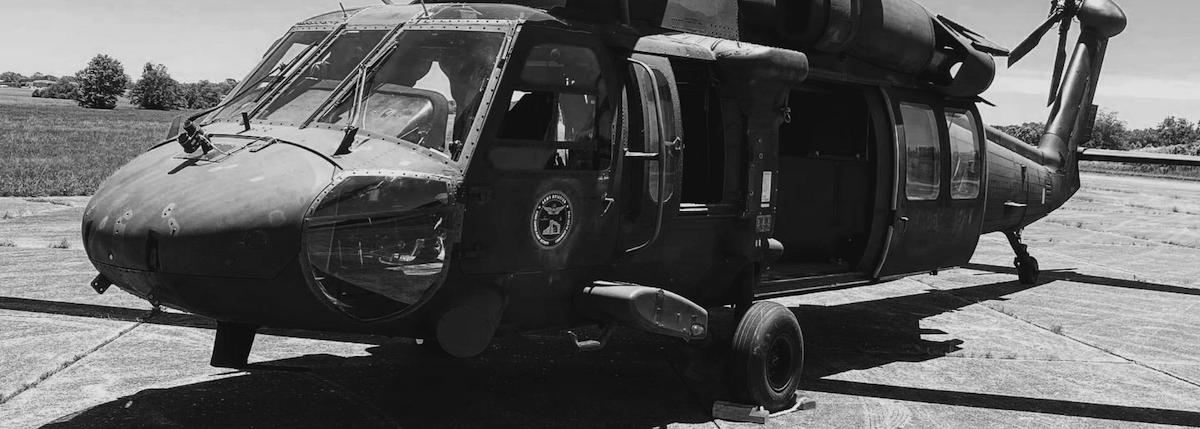
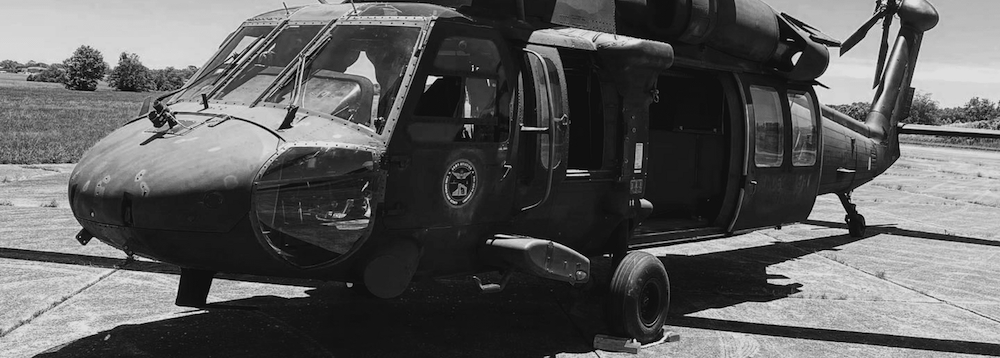
Header image perfect show

Changed region(s): [[0.217, 0.1536, 0.248, 0.1844]]

diff --git a/app/style.css b/app/style.css
@@ -1152,6 +1152,7 @@ p {
 }
 
 .header {
+  width: 100%;
   height: 85vh;
   background-repeat: no-repeat;
   background-size: cover;
@@ -1161,9 +1162,9 @@ p {
 }
 @supports (clip-path: polygon(0 0)) or (-webkit-clip-path: polygon(0 0)) {
   .header {
-    -webkit-clip-path: polygon(0 0, 100% 0, 100% 75vh, 0 100%);
-    clip-path: polygon(0 0, 100% 0, 100% 75vh, 0 100%);
-    height: 95vh;
+    -webkit-clip-path: polygon(0 0, 100% 0, 100% 75%, 0 100%);
+    clip-path: polygon(0 0, 100% 0, 100% 75%, 0 100%);
+    height: 65vh;
   }
 }
 @media only screen and (min-resolution: 192dpi) and (min-width: 37.5em), only screen and (-webkit-min-device-pixel-ratio: 2) and (min-width: 37.5em), only screen and (min-width: 125em) {
@@ -1173,8 +1174,10 @@ p {
 }
 @media only screen and (max-width: 37.5em) {
   .header {
-    -webkit-clip-path: polygon(0 0, 100% 0, 100% 85vh, 0 100%);
-    clip-path: polygon(0 0, 100% 0, 100% 85vh, 0 100%);
+    -webkit-clip-path: polygon(0 0, 100% 0, 100% 85%, 0 100%);
+    clip-path: polygon(0 0, 100% 0, 100% 85%, 0 100%);
+    height: 28vh;
+    margin-bottom: 120px;
   }
 }
 .header__logo-box {
@@ -1340,25 +1343,27 @@ p {
   background-repeat: no-repeat;
   background-size: cover;
   background-position: center center;
-  background-image: linear-gradient(to right bottom, rgba(250, 160, 160, 0.1), rgba(195, 10, 35, 0.1)), url(/img/about-header-small.jpg);
+  background-image: linear-gradient(to right bottom, rgba(250, 160, 160, 0.1), rgba(195, 10, 35, 0.1)), url(/img/aboutheader-small.jpg);
   position: relative;
 }
 @supports (clip-path: polygon(0 0)) or (-webkit-clip-path: polygon(0 0)) {
   .aboutpage {
-    -webkit-clip-path: polygon(0 0, 100% 0, 100% 75vh, 0 100%);
-    clip-path: polygon(0 0, 100% 0, 100% 75vh, 0 100%);
+    -webkit-clip-path: polygon(0 0, 100% 0, 100% 75%, 0 100%);
+    clip-path: polygon(0 0, 100% 0, 100% 75%, 0 100%);
     height: 95vh;
   }
 }
 @media only screen and (min-resolution: 192dpi) and (min-width: 37.5em), only screen and (-webkit-min-device-pixel-ratio: 2) and (min-width: 37.5em), only screen and (min-width: 125em) {
   .aboutpage {
-    background-image: linear-gradient(to right bottom, rgba(250, 160, 160, 0.1), rgba(195, 10, 35, 0.1)), url(/img/about-header.jpg);
+    background-image: linear-gradient(to right bottom, rgba(250, 160, 160, 0.1), rgba(195, 10, 35, 0.1)), url(/img/aboutheader.jpg);
   }
 }
 @media only screen and (max-width: 37.5em) {
   .aboutpage {
-    -webkit-clip-path: polygon(0 0, 100% 0, 100% 85vh, 0 100%);
-    clip-path: polygon(0 0, 100% 0, 100% 85vh, 0 100%);
+    -webkit-clip-path: polygon(0 0, 100% 0, 100% 85%, 0 100%);
+    clip-path: polygon(0 0, 100% 0, 100% 85%, 0 100%);
+    height: 30vh;
+    margin-bottom: 120px;
   }
 }
 .aboutpage__logo-box {
@@ -1424,8 +1429,8 @@ p {
 }
 @supports (clip-path: polygon(0 0)) or (-webkit-clip-path: polygon(0 0)) {
   .whyxppage {
-    -webkit-clip-path: polygon(0 0, 100% 0, 100% 75vh, 0 100%);
-    clip-path: polygon(0 0, 100% 0, 100% 75vh, 0 100%);
+    -webkit-clip-path: polygon(0 0, 100% 0, 100% 75%, 0 100%);
+    clip-path: polygon(0 0, 100% 0, 100% 75%, 0 100%);
     height: 90vh;
   }
 }
@@ -1436,8 +1441,10 @@ p {
 }
 @media only screen and (max-width: 37.5em) {
   .whyxppage {
-    -webkit-clip-path: polygon(0 0, 100% 0, 100% 85vh, 0 100%);
-    clip-path: polygon(0 0, 100% 0, 100% 85vh, 0 100%);
+    -webkit-clip-path: polygon(0 0, 100% 0, 100% 85%, 0 100%);
+    clip-path: polygon(0 0, 100% 0, 100% 85%, 0 100%);
+    height: 30vh;
+    margin-bottom: 120px;
   }
 }
 .whyxppage__logo-box {
@@ -1582,6 +1589,7 @@ p {
 @media only screen and (max-width: 56.25em) {
   .section-about-features {
     padding: 20rem 0;
+    margin-bottom: 10vh;
   }
 }
 
@@ -1633,7 +1641,7 @@ p {
 }
 @media only screen and (max-width: 56.25em) {
   .section-whyxp-features {
-    padding: 20rem 0;
+    padding: 5rem 0;
   }
 }
 

diff --git a/sass/layout/_aboutpage.scss b/sass/layout/_aboutpage.scss
@@ -8,12 +8,12 @@
       rgba($color-primary-light, 0.1),
       rgba($color-primary-dark, 0.1)
     ),
-    url(/img/about-header-small.jpg);
+    url(/img/aboutheader-small.jpg);
   position: relative;
 
   @supports (clip-path: polygon(0 0)) or (-webkit-clip-path: polygon(0 0)) {
-    -webkit-clip-path: polygon(0 0, 100% 0, 100% 75vh, 0 100%);
-    clip-path: polygon(0 0, 100% 0, 100% 75vh, 0 100%);
+    -webkit-clip-path: polygon(0 0, 100% 0, 100% 75%, 0 100%);
+    clip-path: polygon(0 0, 100% 0, 100% 75%, 0 100%);
     height: 95vh;
   }
 
@@ -25,12 +25,14 @@
         rgba($color-primary-light, 0.1),
         rgba($color-primary-dark, 0.1)
       ),
-      url(/img/about-header.jpg);
+      url(/img/aboutheader.jpg);
   }
 
   @include respond(phone) {
-    -webkit-clip-path: polygon(0 0, 100% 0, 100% 85vh, 0 100%);
-    clip-path: polygon(0 0, 100% 0, 100% 85vh, 0 100%);
+    -webkit-clip-path: polygon(0 0, 100% 0, 100% 85%, 0 100%);
+    clip-path: polygon(0 0, 100% 0, 100% 85%, 0 100%);
+    height: 30vh;
+    margin-bottom: 120px;
   }
 
   &__logo-box {

diff --git a/sass/layout/_header.scss b/sass/layout/_header.scss
@@ -1,4 +1,5 @@
 .header {
+  width: 100%;
   height: 85vh;
   background-repeat: no-repeat;
   background-size: cover;
@@ -12,9 +13,9 @@
   position: relative;
 
   @supports (clip-path: polygon(0 0)) or (-webkit-clip-path: polygon(0 0)) {
-    -webkit-clip-path: polygon(0 0, 100% 0, 100% 75vh, 0 100%);
-    clip-path: polygon(0 0, 100% 0, 100% 75vh, 0 100%);
-    height: 95vh;
+    -webkit-clip-path: polygon(0 0, 100% 0, 100% 75%, 0 100%);
+    clip-path: polygon(0 0, 100% 0, 100% 75%, 0 100%);
+    height: 65vh;
   }
 
   @media only screen and (min-resolution: 192dpi) and (min-width: 37.5em),
@@ -29,8 +30,10 @@
   }
 
   @include respond(phone) {
-    -webkit-clip-path: polygon(0 0, 100% 0, 100% 85vh, 0 100%);
-    clip-path: polygon(0 0, 100% 0, 100% 85vh, 0 100%);
+    -webkit-clip-path: polygon(0 0, 100% 0, 100% 85%, 0 100%);
+    clip-path: polygon(0 0, 100% 0, 100% 85%, 0 100%);
+    height: 28vh;
+    margin-bottom: 120px;
   }
 
   &__logo-box {

diff --git a/sass/layout/_whyxppage.scss b/sass/layout/_whyxppage.scss
@@ -12,8 +12,8 @@
   position: relative;
 
   @supports (clip-path: polygon(0 0)) or (-webkit-clip-path: polygon(0 0)) {
-    -webkit-clip-path: polygon(0 0, 100% 0, 100% 75vh, 0 100%);
-    clip-path: polygon(0 0, 100% 0, 100% 75vh, 0 100%);
+    -webkit-clip-path: polygon(0 0, 100% 0, 100% 75%, 0 100%);
+    clip-path: polygon(0 0, 100% 0, 100% 75%, 0 100%);
     height: 90vh;
   }
 
@@ -29,8 +29,10 @@
   }
 
   @include respond(phone) {
-    -webkit-clip-path: polygon(0 0, 100% 0, 100% 85vh, 0 100%);
-    clip-path: polygon(0 0, 100% 0, 100% 85vh, 0 100%);
+    -webkit-clip-path: polygon(0 0, 100% 0, 100% 85%, 0 100%);
+    clip-path: polygon(0 0, 100% 0, 100% 85%, 0 100%);
+    height: 30vh;
+    margin-bottom: 120px;
   }
 
   &__logo-box {

diff --git a/app/components/Footer.js b/app/components/Footer.js
@@ -36,7 +36,7 @@ export default function Footer() {
             </div>
             <div>
               <h2 className='mb-6 text-xl font-semibold text-gray-900 uppercase dark:text-white'>
-                Capabilities
+                ความสามารถ
               </h2>
               <ul className='text-gray-500 dark:text-gray-400 font-large'>
                 <li>การจัดซื้อจัดจ้างการบิน</li>

diff --git a/sass/pages/_whyxp.scss b/sass/pages/_whyxp.scss
@@ -2,7 +2,7 @@
   padding: 15rem 0;
 
   @include respond(tab-port) {
-    padding: 20rem 0;
+    padding: 5rem 0;
   }
 }
 

diff --git a/sass/pages/_about.scss b/sass/pages/_about.scss
@@ -4,6 +4,7 @@
 
   @include respond(tab-port) {
     padding: 20rem 0;
+    margin-bottom: 10vh;
   }
 }
 
